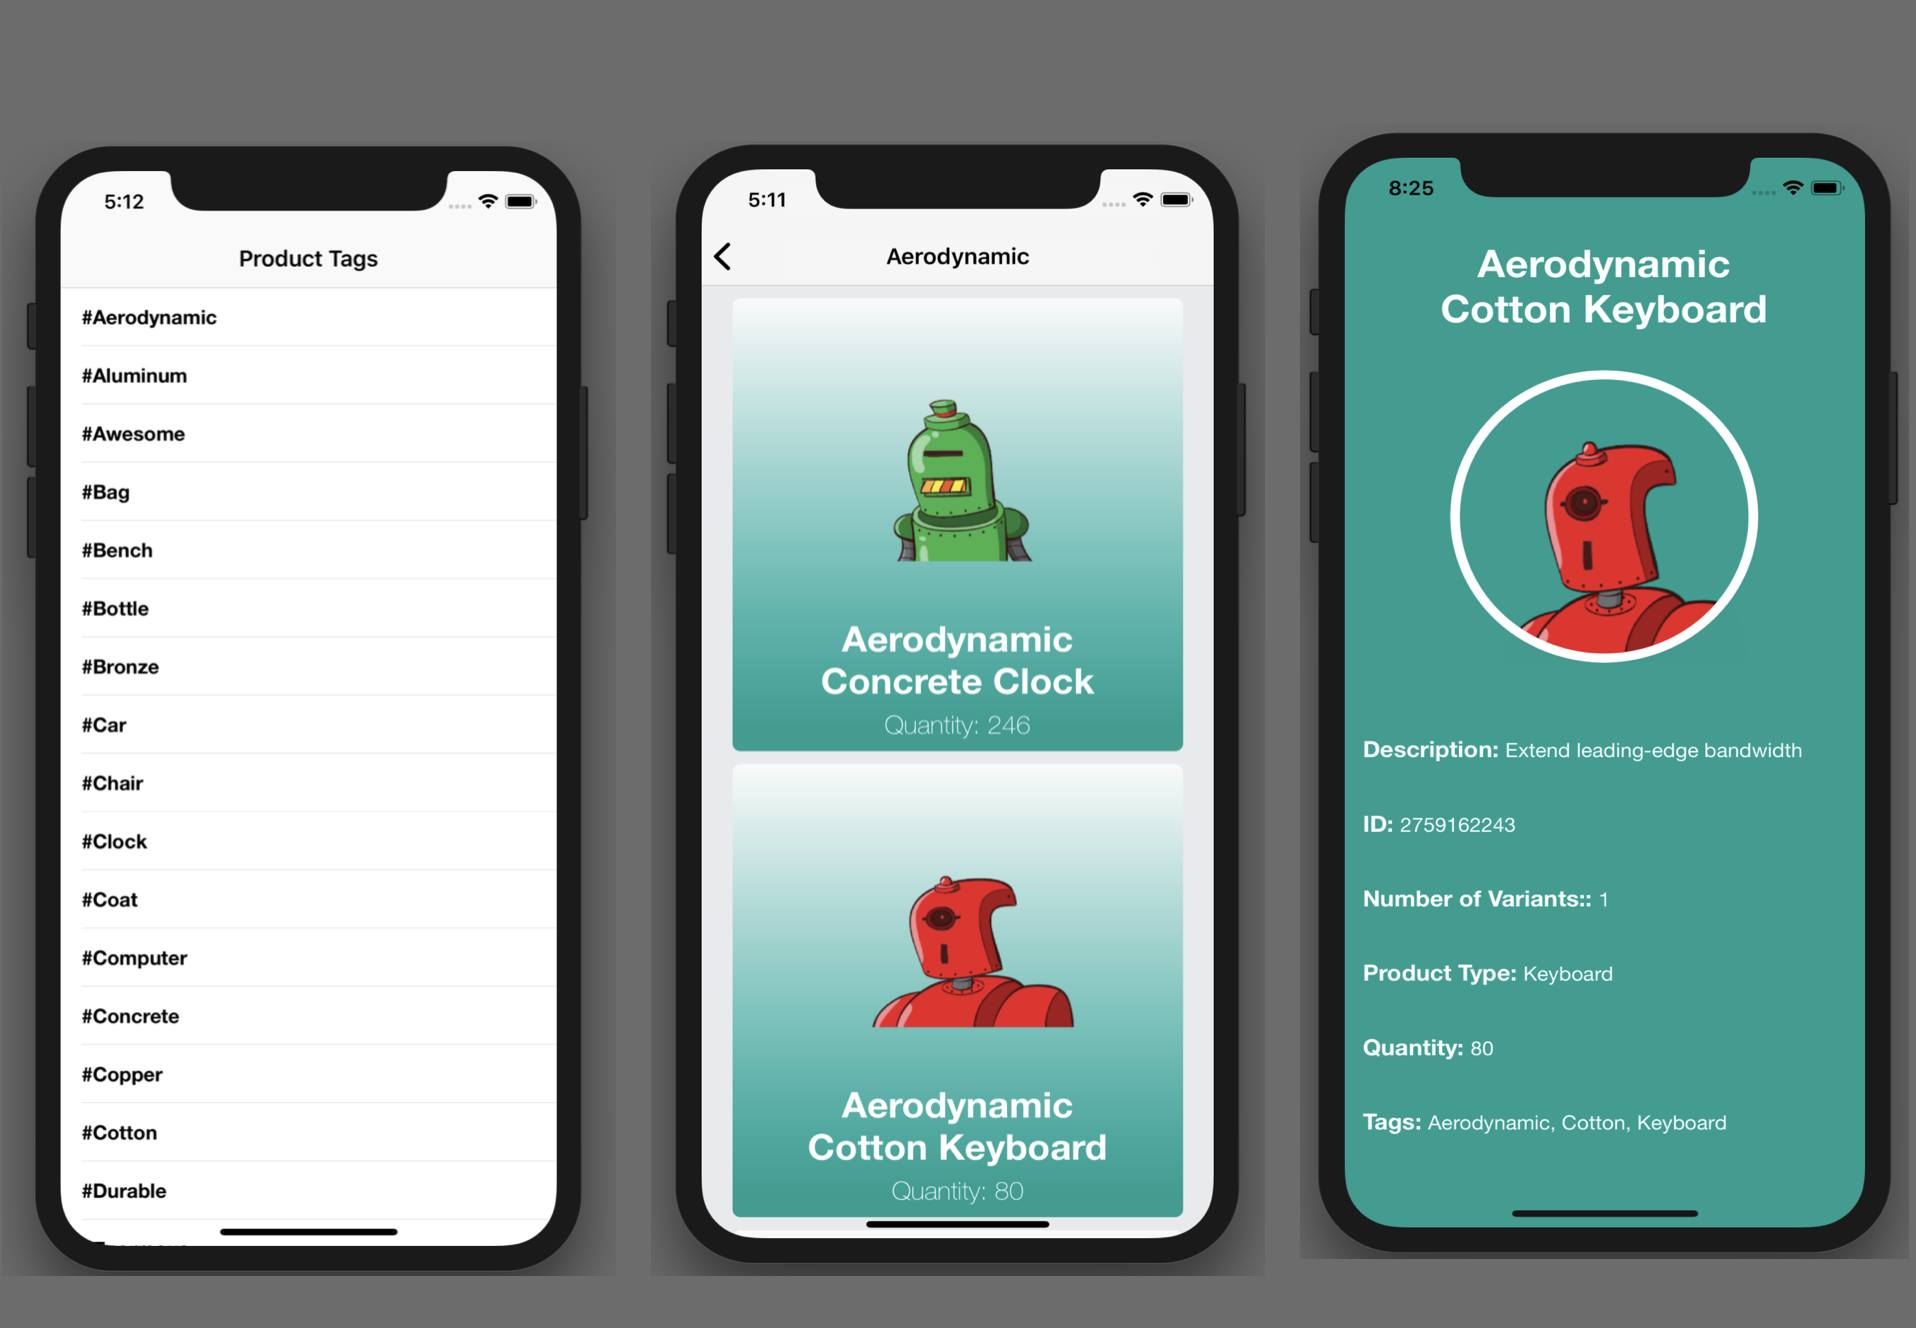
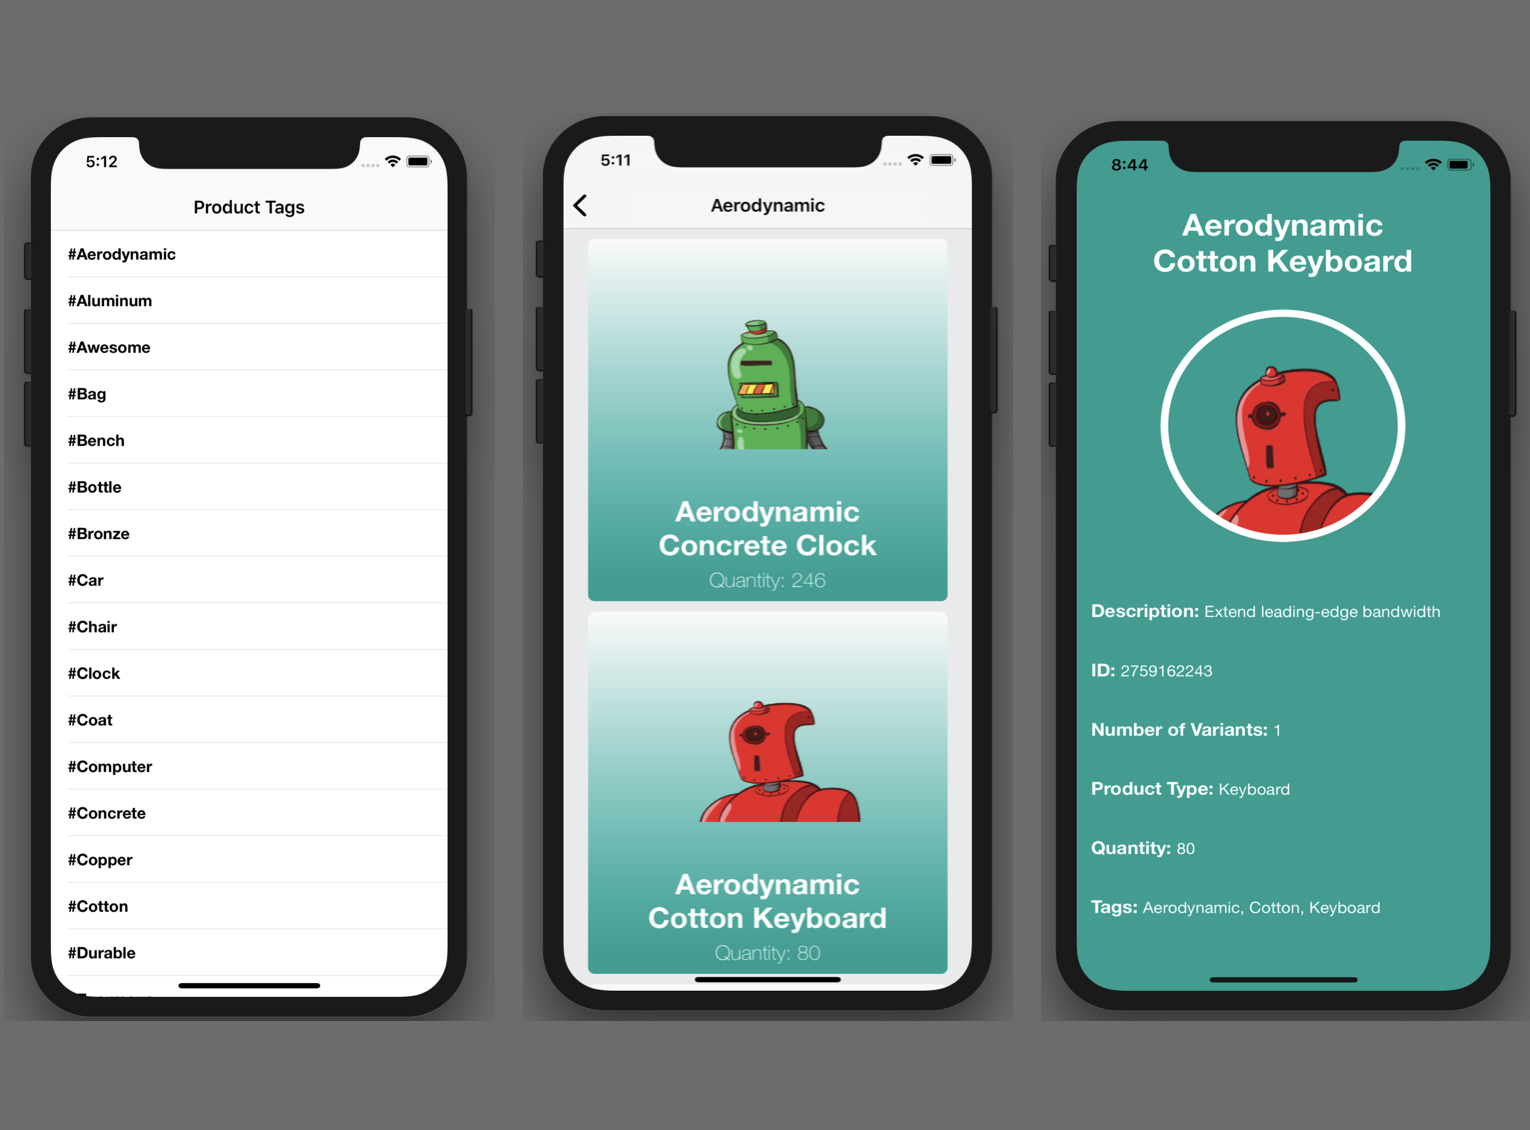
Fixed typo and updated UI screenshot

diff --git a/Easify/ProductInformationViewController.swift b/Easify/ProductInformationViewController.swift
@@ -61,7 +61,7 @@ class ProductInformationViewController : UIViewController {
         let text = NSMutableAttributedString (string: "")
         guard let boldFont = UIFont(name: "HelveticaNeue-Bold", size: 17) else {return text}
         guard let regularFont = UIFont(name: "HelveticaNeue", size: 15 ) else {return text}
-        let allInformation = ["Quantity":String(product.total_quantity ?? 0),"Description":product.body_html,"Product Type": product.product_type, "Upload Date" : product.updated_at, "Tags": product.tags,"Vendor" : product.vendor, "ID":String(product.id ?? 0),"Number of Variants:":String(product.variants?.count ?? 0)]
+        let allInformation = ["Quantity":String(product.total_quantity ?? 0),"Description":product.body_html,"Product Type": product.product_type, "Upload Date" : product.updated_at, "Tags": product.tags,"Vendor" : product.vendor, "ID":String(product.id ?? 0),"Number of Variants":String(product.variants?.count ?? 0)]
         let informationKeys = allInformation.keys.sorted()
         for(_,key) in informationKeys.enumerated() {
             let currentBoldString = NSMutableAttributedString(string: key+": ", attributes: [NSAttributedStringKey.font:boldFont, NSAttributedStringKey.foregroundColor:UIColor.white])
